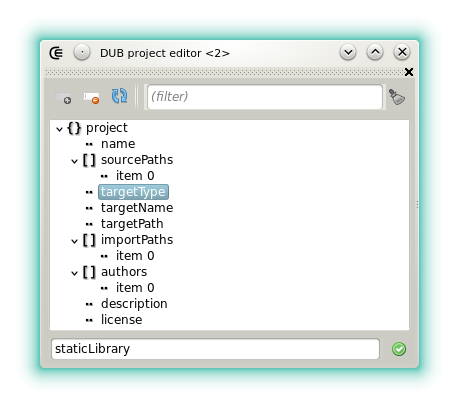
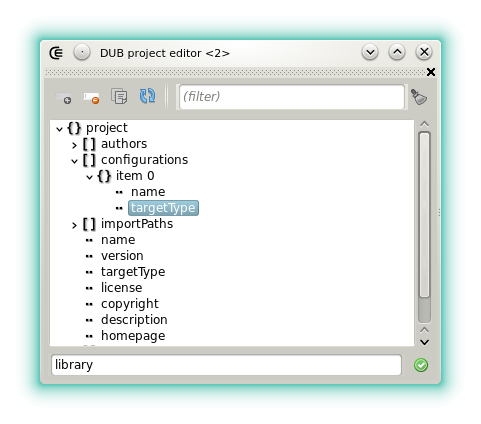
sub proj editor, add a btn to clone a config or a build type

Changed region(s): [[0.061, 0.0882, 0.9455, 0.9118]]

diff --git a/docs/widgets_dub_project_editor.md b/docs/widgets_dub_project_editor.md
@@ -14,8 +14,10 @@ DUB projects with the [SDL format](http://code.dlang.org/package-format?lang=sdl
 A property value can be modified in the field at the bottom. New values always require an extra validation.
 New properties can be added or removed:
 
-- <img src="{%include icurl%}other/textfield_delete.png" class="tlbric"/>: Removes the selected property. Note that the effect is not reflected until the project is saved as a file (since Coedit does not communicate directly with DUB).
 - <img src="{%include icurl%}other/textfield_add.png" class="tlbric"/>: Shows a small dialog that allows to add a new value, a new array or a new object.
+- <img src="{%include icurl%}other/textfield_delete.png" class="tlbric"/>: Removes the selected property. Note that the effect is not reflected until the project is saved as a file (since Coedit does not communicate directly with DUB).
+- <img src="{%include icurl%}other/copy.png" class="tlbric"/>: Duplicates the selected object. Can be used to clone a configuration or a build type.
+- <img src="{%include icurl%}arrow/arrow_update.png" class="tlbric"/>: Updates the source files list.
 
 ![](img/dub_add_property.png)
 
